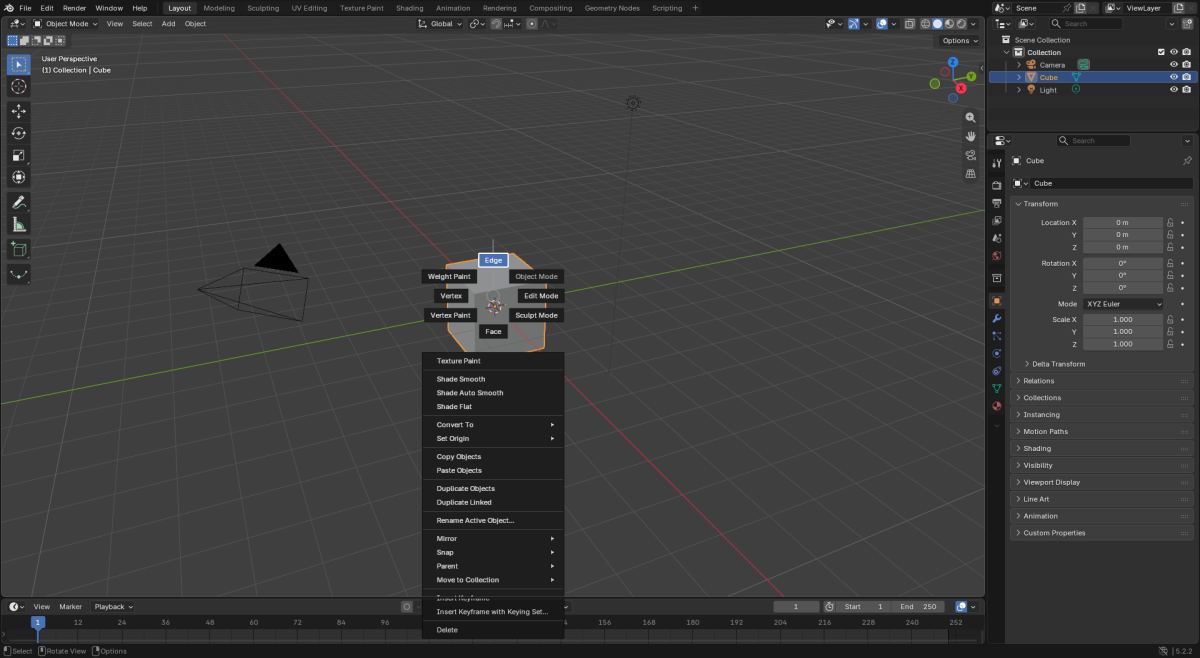
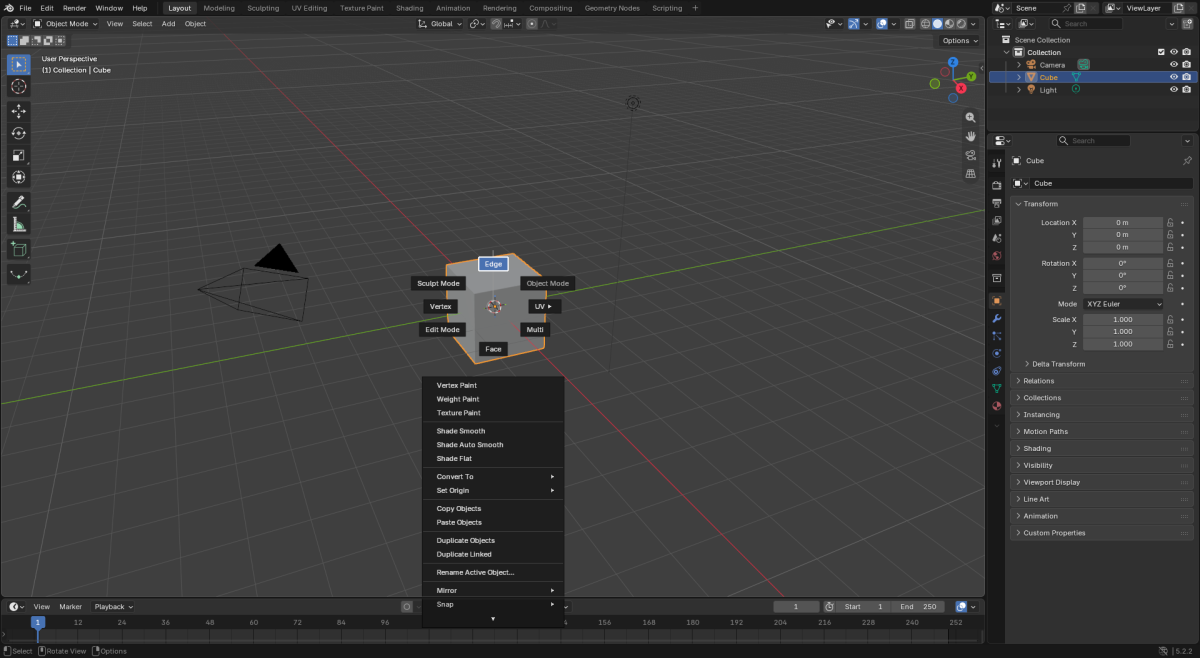
Plaza Compass: a click still at the press point of a warped Compass is a tap
A Compass moved to fit the window warps the pointer to its centre, but
events Blender queued before the warp still carry the press point; the
mark-ahead release read such a click as a flick from the moved centre (the
full GUI run: an empty-space click near the edge switched the editor).
Those events are mapped onto the centre until the pointer really moves.
The right-click Compass never warps. Screenshots of the new right-click
layout.

Changed region(s): [[0.3392, 0.3647, 0.4933, 0.9726]]

diff --git a/src/meso/ops/compass.py b/src/meso/ops/compass.py
@@ -81,6 +81,11 @@ class CompassSession:
     button: str
     pointer: tuple[float, float]
     pan: float = 0.0
+    # A Compass moved to fit the window warps the pointer to its centre; events Blender
+    # queued before the warp still carry the press point: ``warp_from`` (that point) and
+    # ``warp_delta`` map them onto the centre until the pointer really moves away.
+    warp_from: tuple[float, float] | None = None
+    warp_delta: tuple[float, float] = (0.0, 0.0)
 
 
 def _dd():
@@ -162,6 +167,8 @@ def _try_open(op: Any, state: Any, context: Any, event: Any) -> Any:
         warp_cursor(state.window, pointer)
     cs = CompassSession(model, layout, cp.open_state(button, time.perf_counter()), zone,
                         button, pointer)
+    if pointer != (x, y):
+        cs.warp_from, cs.warp_delta = (x, y), (pointer[0] - x, pointer[1] - y)
     _set(state, cs)
     session.compasses.append((zone, zones.BUTTONS[button], model.key))
     _redraw(state, [], plaza=True)
@@ -174,6 +181,20 @@ def warp_cursor(window: Any, xy: tuple[float, float]) -> None:
         window.cursor_warp(int(round(xy[0])), int(round(xy[1])))
     except Exception:
         pass
+
+
+def event_xy(cs: CompassSession, event: Any) -> tuple[float, float]:
+    """The pointer of ``event`` for the open Compass: an event still at (about) the press
+    point of a warped Compass (queued before the warp; a simulated or very fast click) is
+    mapped onto the Compass centre, so its release is a tap in the ring, never a flick;
+    the first event away from it ends the mapping (the pointer is real again)."""
+    x, y = float(event.mouse_x), float(event.mouse_y)
+    if cs.warp_from is not None:
+        fx, fy = cs.warp_from
+        if math.hypot(x - fx, y - fy) <= cs.layout.dead_r:
+            return x + cs.warp_delta[0], y + cs.warp_delta[1]
+        cs.warp_from = None
+    return x, y
 
 
 def hover_at(cs: CompassSession, x: float, y: float) -> dict[str, Any]:
@@ -238,7 +259,7 @@ def wheel_scroll(cs: CompassSession, event: Any, now: float) -> bool:
     n = WHEEL_STEPS.get(getattr(event, 'type', ''))
     if n is None or getattr(event, 'value', '') != 'PRESS':
         return False
-    x, y = float(event.mouse_x), float(event.mouse_y)
+    x, y = event_xy(cs, event)
     if not cp.on_list(cs.layout, x, y):
         return False
     cs.pointer = (x, y)
@@ -255,7 +276,7 @@ def pan_scroll(cs: CompassSession, event: Any, now: float) -> bool:
     Blender's menus). True when the list moved (redraw)."""
     if getattr(event, 'type', '') not in PAN_EVENTS:
         return False
-    x, y = float(event.mouse_x), float(event.mouse_y)
+    x, y = event_xy(cs, event)
     if not cp.on_list(cs.layout, x, y):
         cs.pan = 0.0
         return False
@@ -291,7 +312,7 @@ def handle(op: Any, state: Any, context: Any, event: Any) -> Any:
         now = time.perf_counter()
         before = _extent(cs)
         if etype in MOUSE_MOVES:
-            gesture_move(cs, float(event.mouse_x), float(event.mouse_y), now)
+            gesture_move(cs, *event_xy(cs, event), now)
             _redraw(state, before)
             return {'RUNNING_MODAL'}
         if etype in WHEEL_STEPS:
@@ -309,7 +330,7 @@ def handle(op: Any, state: Any, context: Any, event: Any) -> Any:
         if etype in zones.BUTTONS and value in PRESS_VALUES | {'RELEASE'}:
             session.shift = bool(getattr(event, 'shift', False))
             session.ctrl = bool(getattr(event, 'ctrl', False))
-            x, y = float(event.mouse_x), float(event.mouse_y)
+            x, y = event_xy(cs, event)
             if value == 'RELEASE':
                 # The mark's end decides (a flick may release before its last move arrives).
                 gesture_move(cs, x, y, now)

diff --git a/tests/blender/test_compass.py b/tests/blender/test_compass.py
@@ -362,6 +362,31 @@ class TestCompassModal(_CompassCase):
         self.assertEqual(warps, [tuple(int(round(v)) for v in cs.layout.centre)])
         self.assertEqual(cs.pointer, cs.layout.centre)
 
+    def test_a_click_on_a_warped_compass_is_a_tap(self):
+        """Events queued before the warp still carry the press point: a quick click there is
+        a tap in the ring (the LMB tap cancels), never a flick from the moved centre (GUI
+        run 2026-09-26: an empty-space click near the edge switched the editor)."""
+        oc = _mod("ops.compass")
+        self.addCleanup(setattr, oc, 'warp_cursor', oc.warp_cursor)
+        oc.warp_cursor = lambda window, xy: None
+        ox, _oy = self.origin()
+        xy = (int(ox), 3)
+        self.ev('LEFTMOUSE', 'PRESS', xy)
+        self.assertNotEqual(self.compass().layout.shift, (0, 0))
+        self.clock[0] += 0.05
+        self.ev('LEFTMOUSE', 'RELEASE', xy)
+        self.assertIsNone(self.compass())
+        self.assertEqual(self.executed, [], "nothing picked")
+        self.assertTrue(_hb().is_running())
+        # A middle tap there leaves the Compass open (click style), a real move then picks.
+        self.state.menus.compass_slots['zone_S_M'] = 'meso:editors'
+        self.ev('MIDDLEMOUSE', 'PRESS', xy)
+        self.clock[0] += 0.05
+        self.ev('MIDDLEMOUSE', 'RELEASE', xy)
+        cs = self.compass()
+        self.assertTrue(cs is not None and cs.gesture.sticky)
+        self.assertIsNone(cs.warp_from is not None and cs.gesture.hover_slot)
+
     def test_timer_passes_through(self):
         xy = self.zone_xy('N')
         self.ev('LEFTMOUSE', 'PRESS', xy)
